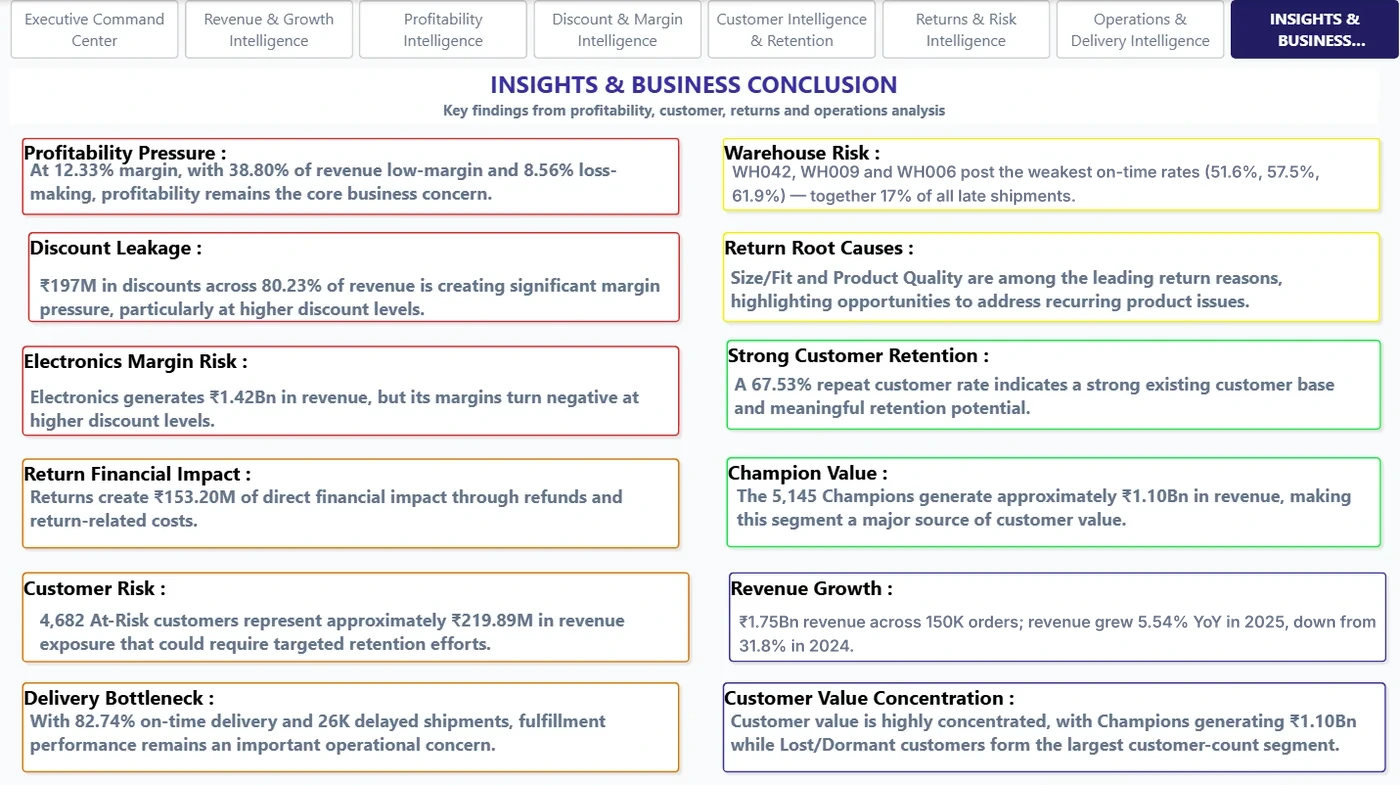
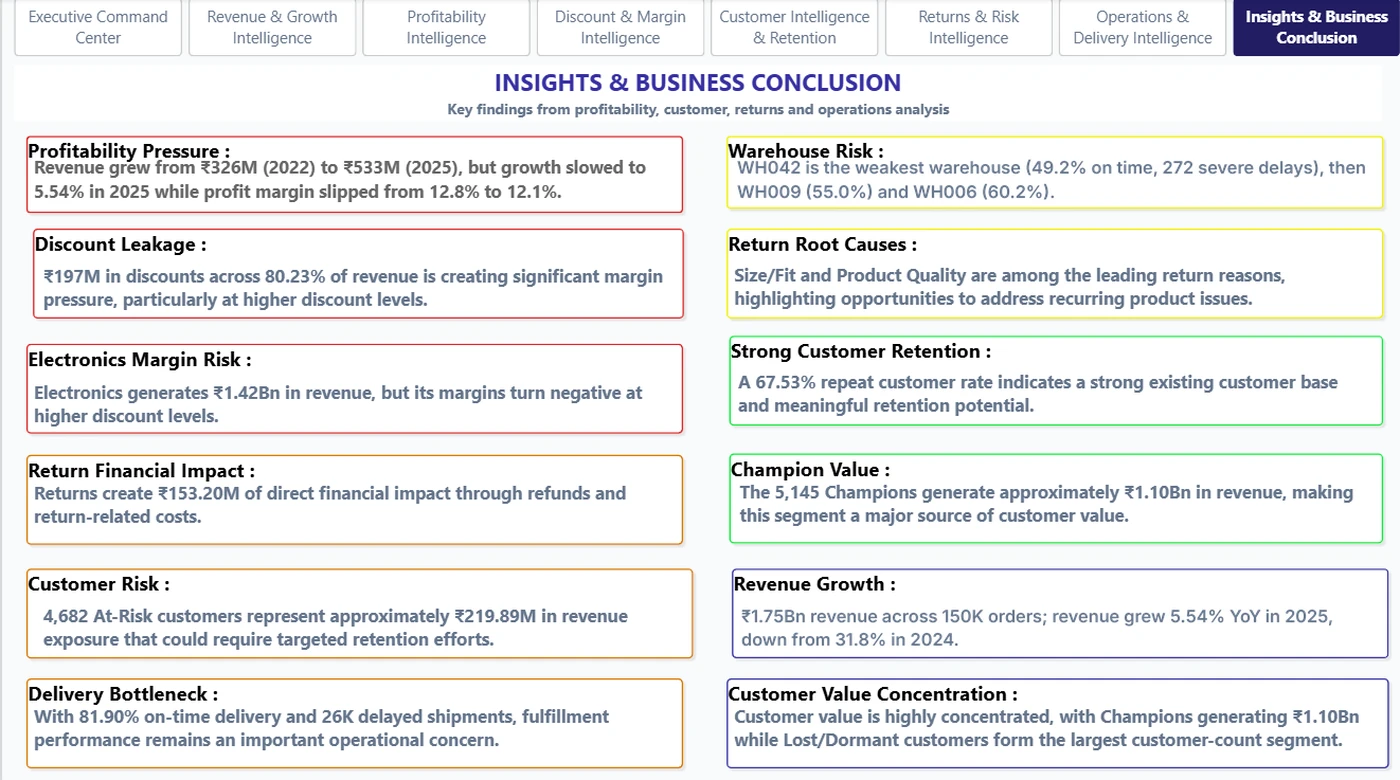
Submit the changes

Changed region(s): [[0.0, 0.0, 1.0, 0.9846]]

diff --git a/projects/shopkart.html b/projects/shopkart.html
@@ -38,7 +38,7 @@
       </section>
       <section class="cs-section">
         <div class="cs-head"><span class="cs-num">02</span><h2>Business problem</h2></div>
-        <p class="note"><strong>Business question:</strong> why isn't profitability improving despite strong sales growth — and how much of the revenue is actually sustainable?</p>
+        <p class="note"><strong>Business question:</strong> why isn't profitability improving even though sales have grown every year (and why did growth slow to +5.5% in 2025) — and how much of the revenue is actually sustainable?</p>
         <div class="split"><div class="panel"><h3>Questions investigated</h3><ul><li>Which products, categories and sellers earn weak margins?</li><li>Where do discounts help sales, and where do they destroy margin?</li><li>Who creates value, and who is drifting toward churn?</li></ul></div><div class="panel"><h3>…and the leaks</h3><ul><li>How much value is lost to returns and refunds?</li><li>Where are fulfilment and delivery bottlenecks?</li><li>Is growth outpacing revenue quality?</li></ul></div></div>
       </section>
       <section class="cs-section">
@@ -81,8 +81,8 @@ ORDER BY MIN(discount_percent);</code></pre></div>
       </section>
       <section class="cs-section">
         <div class="cs-head"><span class="cs-num">07</span><h2>Key findings</h2></div>
-        <div class="table-wrap"><table class="data"><thead><tr><th>Year</th><th>Revenue</th><th>Orders</th><th>Avg order value</th><th>Avg discount</th><th>Profit margin</th><th>Revenue growth</th></tr></thead><tbody><tr><td>2022</td><td>₹325.8M</td><td>22,921</td><td>₹14.2K</td><td>9.5%</td><td>12.81%</td><td>—</td></tr><tr><td>2023</td><td>₹382.9M</td><td>32,346</td><td>₹11.8K</td><td>10.2%</td><td>12.34%</td><td>+17.5%</td></tr><tr><td>2024</td><td>₹504.7M</td><td>43,133</td><td>₹11.7K</td><td>9.9%</td><td>12.25%</td><td>+31.8%</td></tr><tr><td>2025</td><td>₹532.6M</td><td>51,600</td><td>₹10.3K</td><td>10.6%</td><td>12.10%</td><td>+5.5%</td></tr></tbody></table></div>
-        <div class="insights"><div class="insight insight--risk"><small>Risk</small><strong>Growth is slowing while margin slips.</strong> Revenue growth fell from +31.8% (2024) to +5.5% (2025); margin drifted from 12.81% to 12.10% as the average discount rose from 9.5% to 10.6%.</div><div class="insight insight--risk"><small>Risk</small><strong>Orders grew 19.6% in 2025 but revenue only 5.5%,</strong> because average order value fell from ₹11.7K to ₹10.3K (−11.8%).</div><div class="insight insight--risk"><small>Risk</small><strong>Electronics is 81.6% of revenue (₹1.42bn) at a 10.4% margin,</strong> against 22.4% for Fashion and 17.5% for Home & Kitchen.</div><div class="insight insight--risk"><small>Risk</small><strong>Deep Electronics discounts destroy margin:</strong> 16.9% with no discount, 12.0% at 1–10%, 3.6% at 11–20% (₹366M of revenue), −7.5% at 21–30% and −22.8% at 31–40%.</div><div class="insight insight--risk"><small>Risk</small><strong>₹197M of discounts were given and 80.23% of revenue is discounted,</strong> a 10.12% weighted discount. About 38.8% of revenue earns under 10% margin, including the 8.56% that is loss-making.</div><div class="insight"><small>Watch</small><strong>Returns cost ₹153.2M</strong> (₹127.8M refunds plus ₹25.4M return costs). 22,025 orders (14.7%) ended as returned; the top reasons are Size/Fit (5,180 returns), Product Quality (4,673) and Not as Described (4,386).</div><div class="insight"><small>Watch</small><strong>67.53% of customers who ordered bought again — but 22,895 registered customers (45.8%) never ordered.</strong> 4,682 “at risk” customers (recency score 1–2, frequency score 3–5) represent ₹219.89M of past revenue.</div><div class="insight"><small>Watch</small><strong>82.74% of shipments were not delayed;</strong> 25,883 were late (1,410 of them by 4+ days). WH042 is the weakest warehouse at 51.63% on time, then WH009 (57.49%) and WH006 (61.91%) — together 17% of all late shipments.</div><div class="insight insight--good"><small>Strength</small><strong>Revenue sold without a discount earns an 18.9% margin</strong> and makes up 19.8% of revenue — the healthy baseline the discounted sales are measured against.</div></div>
+        <div class="table-wrap"><table class="data"><thead><tr><th>Year</th><th>Revenue</th><th>Orders</th><th>Avg order value</th><th>Avg discount</th><th>Profit margin</th><th>Revenue growth</th><th>Profit growth</th></tr></thead><tbody><tr><td>2022</td><td>₹325.8M</td><td>22,921</td><td>₹14.2K</td><td>9.5%</td><td>12.81%</td><td>—</td><td>—</td></tr><tr><td>2023</td><td>₹382.9M</td><td>32,346</td><td>₹11.8K</td><td>10.2%</td><td>12.34%</td><td>+17.5%</td><td>+13.2%</td></tr><tr><td>2024</td><td>₹504.7M</td><td>43,133</td><td>₹11.7K</td><td>9.9%</td><td>12.25%</td><td>+31.8%</td><td>+30.9%</td></tr><tr><td>2025</td><td>₹532.6M</td><td>51,600</td><td>₹10.3K</td><td>10.6%</td><td>12.10%</td><td>+5.5%</td><td>+4.3%</td></tr></tbody></table></div>
+        <div class="insights"><div class="insight insight--risk"><small>Risk</small><strong>Growth is slowing while margin slips.</strong> Revenue growth fell from +31.8% (2024) to +5.5% (2025), and profit grew more slowly than revenue every year (2025: +4.3%). Margin drifted from 12.81% to 12.10% as the average discount rose from 9.5% to 10.6%.</div><div class="insight insight--risk"><small>Risk</small><strong>Orders grew 19.6% in 2025 but revenue only 5.5%,</strong> because average order value fell from ₹11.7K to ₹10.3K (−11.8%).</div><div class="insight insight--risk"><small>Risk</small><strong>Electronics is 81.6% of revenue (₹1.42bn) at a 10.4% margin,</strong> against 22.4% for Fashion and 17.5% for Home & Kitchen.</div><div class="insight insight--risk"><small>Risk</small><strong>Deep Electronics discounts destroy margin:</strong> 16.9% with no discount, 12.0% at 1–10%, 3.6% at 11–20% (₹366M of revenue), −7.5% at 21–30% and −22.8% at 31–40%.</div><div class="insight insight--risk"><small>Risk</small><strong>₹197M of discounts were given and 80.23% of revenue is discounted,</strong> a 10.12% weighted discount. About 38.8% of revenue earns under 10% margin, including the 8.56% that is loss-making.</div><div class="insight"><small>Watch</small><strong>Returns cost ₹153.2M</strong> (₹127.8M refunds plus ₹25.4M return costs). 22,025 orders (14.7%) ended as returned; the top reasons are Size/Fit (5,180 returns), Product Quality (4,673) and Not as Described (4,386).</div><div class="insight"><small>Watch</small><strong>67.53% of customers who ordered bought again — but 22,895 registered customers (45.8%) never ordered.</strong> 4,682 “at risk” customers (recency score 1–2, frequency score 3–5) represent ₹219.89M of past revenue.</div><div class="insight"><small>Watch</small><strong>81.90% of delivered shipments arrived on time;</strong> 25,883 were late (1,410 of them by more than 3 days). WH042 is the weakest warehouse at 49.2% on time (272 severe delays), then WH009 (55.0%) and WH006 (60.2%) — together 17% of all late shipments.</div><div class="insight insight--good"><small>Strength</small><strong>Revenue sold without a discount earns an 18.9% margin</strong> and makes up 19.8% of revenue — the healthy baseline the discounted sales are measured against.</div></div>
       </section>
 
       <section class="cs-section">
@@ -99,7 +99,7 @@ ORDER BY MIN(discount_percent);</code></pre></div>
       <section class="cs-section">
         <div class="cs-head"><span class="cs-num">10</span><h2>Dashboard showcase</h2></div>
         <div class="prose"><p>An eight-page report, each page built around one business question. Click a screenshot to enlarge.</p></div>
-        <div class="gallery"><figure class="shot shot--wide"><img src="../assets/images/projects/shopkart/shopkart-executive-command-center.webp" alt="Executive Command Center" width="1400" height="795" loading="lazy" data-zoom><figcaption><strong>Executive Command Center</strong>The one-page summary: revenue, profit and margin, monthly trend, customer segments, profit by category and a business-health table (discount exposure, return impact, at-risk revenue, loss- and low-margin revenue, repeat rate).</figcaption></figure><figure class="shot"><img src="../assets/images/projects/shopkart/shopkart-revenue-growth.webp" alt="Revenue &amp; Growth Intelligence" width="1400" height="780" loading="lazy" data-zoom><figcaption><strong>Revenue &amp; Growth Intelligence</strong>Where is growth coming from? Revenue trend by channel, region and category.</figcaption></figure><figure class="shot"><img src="../assets/images/projects/shopkart/shopkart-profitability.webp" alt="Profitability Intelligence" width="1400" height="786" loading="lazy" data-zoom><figcaption><strong>Profitability Intelligence</strong>Which parts of the business actually create profit? Products, categories, sellers and leakage candidates.</figcaption></figure><figure class="shot"><img src="../assets/images/projects/shopkart/shopkart-discount-margin.webp" alt="Discount &amp; Margin Intelligence" width="1400" height="783" loading="lazy" data-zoom><figcaption><strong>Discount &amp; Margin Intelligence</strong>Where do discounts help sales, and where do they destroy margin?</figcaption></figure><figure class="shot"><img src="../assets/images/projects/shopkart/shopkart-customer-retention.webp" alt="Customer Intelligence &amp; Retention" width="1400" height="780" loading="lazy" data-zoom><figcaption><strong>Customer Intelligence &amp; Retention</strong>Who creates value, and where is retention risk concentrated? RFM segments and at-risk revenue.</figcaption></figure><figure class="shot"><img src="../assets/images/projects/shopkart/shopkart-returns-risk.webp" alt="Returns &amp; Risk Intelligence" width="1400" height="786" loading="lazy" data-zoom><figcaption><strong>Returns &amp; Risk Intelligence</strong>Where is value lost through returns? Reasons, status and product-level impact.</figcaption></figure><figure class="shot"><img src="../assets/images/projects/shopkart/shopkart-operations-delivery.webp" alt="Operations &amp; Delivery Intelligence" width="1400" height="781" loading="lazy" data-zoom><figcaption><strong>Operations &amp; Delivery Intelligence</strong>Where are fulfilment bottlenecks? Warehouses, delivery partners and delay trends.</figcaption></figure><figure class="shot"><img src="../assets/images/projects/shopkart/shopkart-insights.webp" alt="Insights &amp; Business Conclusion" width="1400" height="785" loading="lazy" data-zoom><figcaption><strong>Insights &amp; Business Conclusion</strong>The findings from the previous pages, rated by severity.</figcaption></figure></div>
+        <div class="gallery"><figure class="shot shot--wide"><img src="../assets/images/projects/shopkart/shopkart-executive-command-center.webp" alt="Executive Command Center" width="1400" height="795" loading="lazy" data-zoom><figcaption><strong>Executive Command Center</strong>The one-page summary: revenue, profit and margin, monthly trend, customer segments, profit by category and a business-health table (discount exposure, return impact, at-risk revenue, loss- and low-margin revenue, repeat rate).</figcaption></figure><figure class="shot"><img src="../assets/images/projects/shopkart/shopkart-revenue-growth.webp" alt="Revenue &amp; Growth Intelligence" width="1400" height="784" loading="lazy" data-zoom><figcaption><strong>Revenue &amp; Growth Intelligence</strong>Where is growth coming from? Revenue trend by channel, region and category.</figcaption></figure><figure class="shot"><img src="../assets/images/projects/shopkart/shopkart-profitability.webp" alt="Profitability Intelligence" width="1400" height="786" loading="lazy" data-zoom><figcaption><strong>Profitability Intelligence</strong>Which parts of the business actually create profit? Products, categories, sellers and leakage candidates.</figcaption></figure><figure class="shot"><img src="../assets/images/projects/shopkart/shopkart-discount-margin.webp" alt="Discount &amp; Margin Intelligence" width="1400" height="783" loading="lazy" data-zoom><figcaption><strong>Discount &amp; Margin Intelligence</strong>Where do discounts help sales, and where do they destroy margin?</figcaption></figure><figure class="shot"><img src="../assets/images/projects/shopkart/shopkart-customer-retention.webp" alt="Customer Intelligence &amp; Retention" width="1400" height="780" loading="lazy" data-zoom><figcaption><strong>Customer Intelligence &amp; Retention</strong>Who creates value, and where is retention risk concentrated? RFM segments and at-risk revenue.</figcaption></figure><figure class="shot"><img src="../assets/images/projects/shopkart/shopkart-returns-risk.webp" alt="Returns &amp; Risk Intelligence" width="1400" height="786" loading="lazy" data-zoom><figcaption><strong>Returns &amp; Risk Intelligence</strong>Where is value lost through returns? Reasons, status and product-level impact.</figcaption></figure><figure class="shot"><img src="../assets/images/projects/shopkart/shopkart-operations-delivery.webp" alt="Operations &amp; Delivery Intelligence" width="1400" height="785" loading="lazy" data-zoom><figcaption><strong>Operations &amp; Delivery Intelligence</strong>Where are fulfilment bottlenecks? Warehouses, delivery partners and delay trends.</figcaption></figure><figure class="shot"><img src="../assets/images/projects/shopkart/shopkart-insights.webp" alt="Insights &amp; Business Conclusion" width="1400" height="780" loading="lazy" data-zoom><figcaption><strong>Insights &amp; Business Conclusion</strong>The findings from the previous pages, rated by severity.</figcaption></figure></div>
       </section>
       <section class="cs-section">
         <div class="cs-head"><span class="cs-num">11</span><h2>Technical implementation</h2></div>
@@ -107,7 +107,7 @@ ORDER BY MIN(discount_percent);</code></pre></div>
       </section>
       <section class="cs-section">
         <div class="cs-head"><span class="cs-num">12</span><h2>Limitations &amp; assumptions</h2></div>
-        <div class="panel"><h3>Worth keeping in mind</h3><ul><li>The dataset is <strong>synthetic</strong> and does not represent real company data.</li><li>Reported revenue and profit include cancelled and later-returned orders; refunds are reported separately (see Data preparation). Growth figures here are calendar-year totals.</li><li>“Low-margin revenue” (38.8%) means items with a margin under 10% and includes the loss-making 8.56%. “Repeat customers” (67.53%) is measured among customers who ordered, not all registered customers. “On time” counts a shipment as late only if it was delayed, with all 150,000 shipments in the denominator.</li><li>The discount-band margins are associations, not causal effects, and the ₹30.5M upside assumes volumes would hold.</li><li>RFM thresholds are heuristic, and “direct return impact” is refunds plus return costs without resale or salvage value.</li></ul></div>
+        <div class="panel"><h3>Worth keeping in mind</h3><ul><li>The dataset is <strong>synthetic</strong> and does not represent real company data.</li><li>Reported revenue and profit include cancelled and later-returned orders; refunds are reported separately (see Data preparation). Growth figures here are calendar-year totals.</li><li>“Low-margin revenue” (38.8%) means items with a margin under 10% and includes the loss-making 8.56%. “Repeat customers” (67.53%) is measured among customers who ordered, not all registered customers. “On time” (81.90%) is measured on shipments that have a delivery date; cancelled and in-transit shipments are excluded.</li><li>The discount-band margins are associations, not causal effects, and the ₹30.5M upside assumes volumes would hold.</li><li>RFM thresholds are heuristic, and “direct return impact” is refunds plus return costs without resale or salvage value.</li></ul></div>
       </section>
       <section class="cs-section">
         <div class="cs-head"><span class="cs-num">13</span><h2>Explore the code</h2></div>

diff --git a/css/style.css b/css/style.css
@@ -415,3 +415,11 @@ table.data td:first-child { font-weight: 600; white-space: nowrap; }
 }
 .project-card--flagship.project-card--grid .frame-label { display: none; }
 @media (max-width: 900px) { .project-card--flagship.project-card--featured .frame-label { display: none; } }
+
+
+/* Hero scroll arrow: clearer idle animation (chevron bounce + expanding gold ring). Disabled for prefers-reduced-motion by the global rule above. */
+.hero-scroll svg { animation: chevronBounce 1.6s ease-in-out infinite; }
+.hero-scroll::after { content: ""; position: absolute; inset: -1.5px; border-radius: 50%; border: 1.5px solid var(--gold); opacity: 0; pointer-events: none; animation: ringPulse 2.4s ease-out infinite; }
+@keyframes chevronBounce { 0%, 100% { transform: translateY(-3px); opacity: .55; } 50% { transform: translateY(5px); opacity: 1; } }
+@keyframes ringPulse { 0% { transform: scale(1); opacity: .55; } 100% { transform: scale(1.75); opacity: 0; } }
+.hero-scroll:hover::after { animation-play-state: paused; opacity: 0; }

diff --git a/data/portfolio-data.js b/data/portfolio-data.js
@@ -30,7 +30,7 @@ const portfolioData = {
 
   /* ===== 2 · HERO ===== */
   hero: {
-    pill: "DATA · ANALYTICS · PROJECTS",
+    pill: "TURNING DATA INTO DECISIONS",
     nameLines: ["SNEHA", "GUPTA"],
     intro: "I dig into business questions with **SQL, Python and Power BI** — then build the dashboards and write-ups that show what I found.",
     photo: "assets/images/profile/sneha.webp"
